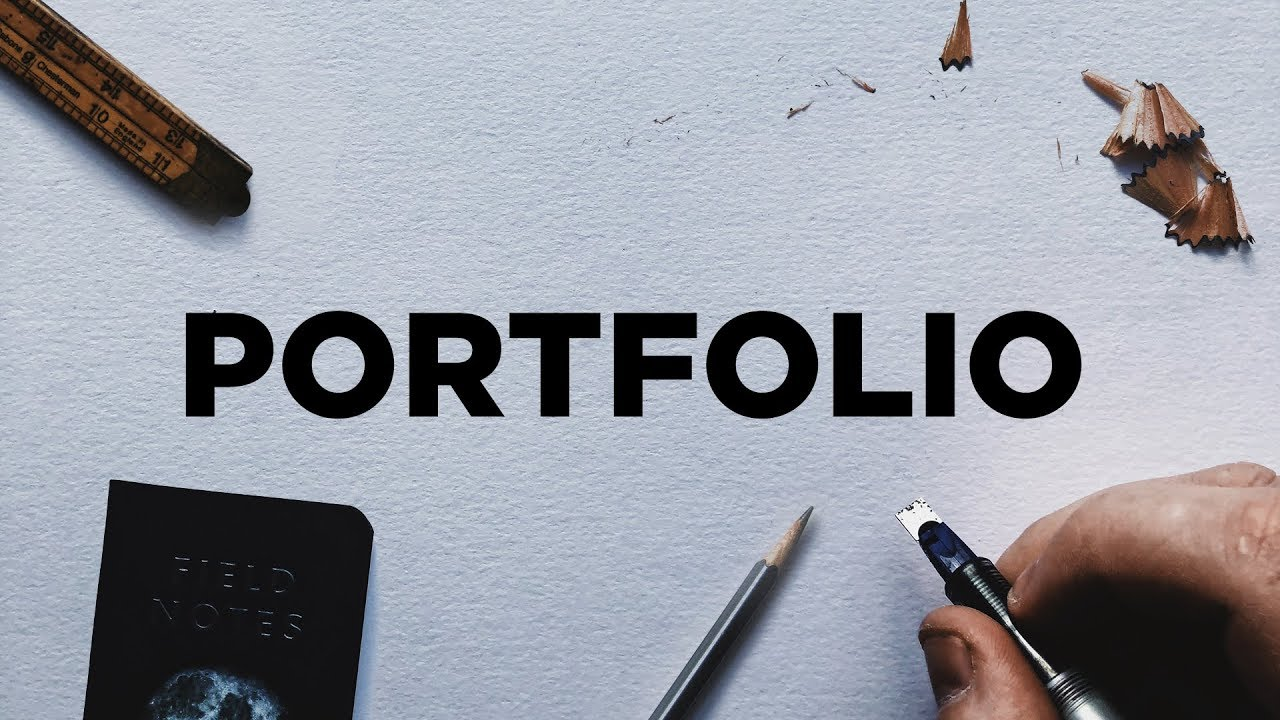
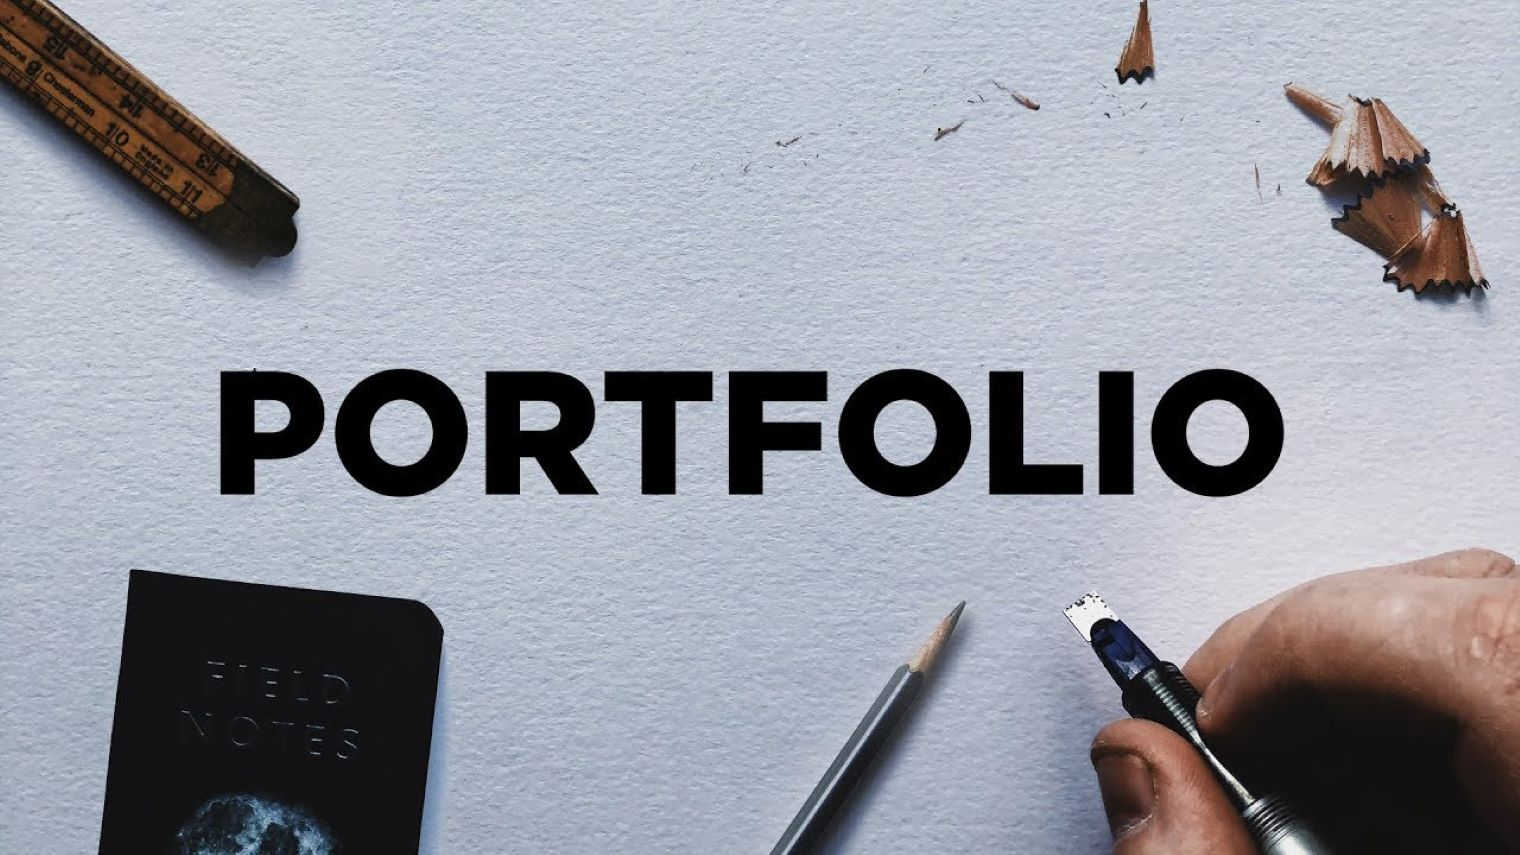
portfolio final

Changed region(s): [[0.8125, 0.9472, 0.8438, 0.9778]]

diff --git a/index.html b/index.html
@@ -40,7 +40,7 @@
 
 <!--ShowCase-->
 
-	<center><img src="img/porto.jpg" />
+	<center><img src="img/6.jpg" />
   </center>  
 </div>
 <div id="About">
@@ -54,7 +54,7 @@
 
    
 
-<div class="card" style="max-width: 1100px;">
+<div class="card text-white bg-dark mb-3" style="max-width: 1100px;">
     <div class="row no-gutters">
         <div class="col-md-5" style="background: #868e96;">
             <img src="img/bad1.jpg" class="card-img-top h-100" alt="...">
@@ -83,7 +83,7 @@
                 		</tr>
                 	</table>
                 </div>
-                <a href="#" class="btn btn-primary stretched-link">View Profile</a>
+               
             </div>
 
 
@@ -95,7 +95,7 @@
 
 
   
-   <div class="card-footer bg-danger">
+   <div class="card-footer bg-secondary">
 <a href="#"><i class="fa fa-facebook fa-2x mx-3"></i></a>
 <a href="#"><i class="fa fa-twitter fa-2x mx-3"></i></a>
 <a href="#"><i class="fa fa-instagram fa-2x mx-3"></i></a>
@@ -134,16 +134,17 @@
 		<span class="bg-primary text-white">My skills</span><hr class="bg-primary">
 <!--Boostrap-->
 <div class="card">
-  <h5 class="card-header">Featured</h5>
+  <h5 class="card-header"></h5>
   <div class="card-body">
     <h5 class="card-title">HTML 5</h5>
     <div class="progress-bar" style="width: 95%">95%</div>
+    <h5 class="card-title">Javascript</h5>
+    <div class="progress-bar bg-warning" style="width: 70%">70%</div>
 
     <h5 class="card-title">PHP</h5>
     <div class="progress-bar bg-danger" style="width: 50%">50%</div>
 
-    <h5 class="card-title">Javascript</h5>
-    <div class="progress-bar bg-dark" style="width: 70%">70%</div>
+    
 
     
   </div>
@@ -198,8 +199,13 @@
 	 	 </div>
 	 </div>
 </div>
+</div>
+</div>
+</div>
+</div>
 
 <!--Footer-->
+
 <div class="container-fluid bg-dark">
 	<div class="row">
 		<div class="col">

diff --git a/css/mystyle.css b/css/mystyle.css
@@ -5,6 +5,38 @@ body
 
 }
 
+
+.navbar {
+  overflow: hidden;
+  background-color: #333;
+  position: fixed; ; /* Set the navbar to fixed position */
+  top: 0; /* Position the navbar at the top of the page */
+  width: 100%; /* Full width */
+  z-index:1;
+}
+
+/* Links inside the navbar */
+.navbar a {
+  float: left;
+  display: block;
+  color: #f2f2f2;
+  text-align: center;
+  padding: 14px 16px;
+  text-decoration: none;
+}
+
+/* Change background on mouse-over */
+.navbar a:hover {
+  background: #ddd;
+  color: black;
+}
+
+/* Main content */
+.main {
+  margin-top: 50px; /* Add a top margin to avoid content overlay */
+}
+
+
 #Header a:hover
 {
     color: #6666FF;
@@ -19,7 +51,8 @@ body
 #About
 {
 
-   margin-top: -240px; 
+   margin-top: -350px; 
+
 }
 #About .fa
 {
@@ -55,5 +88,3 @@ margin-top: 06px;
 border-width: 3px;
 margin-top: 06px; 
  }
-
- 
